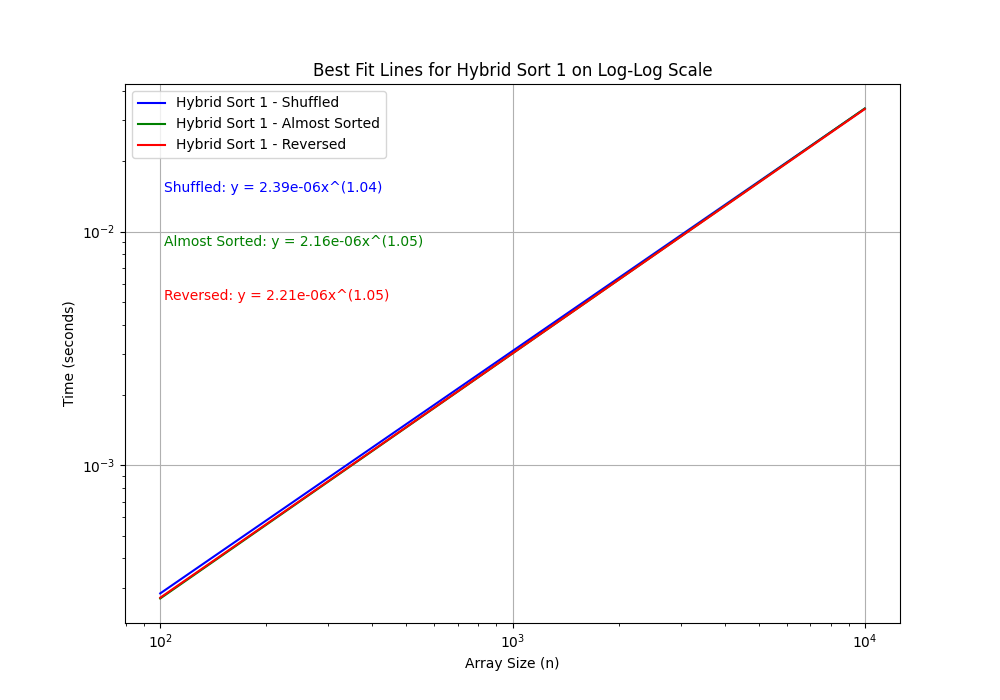
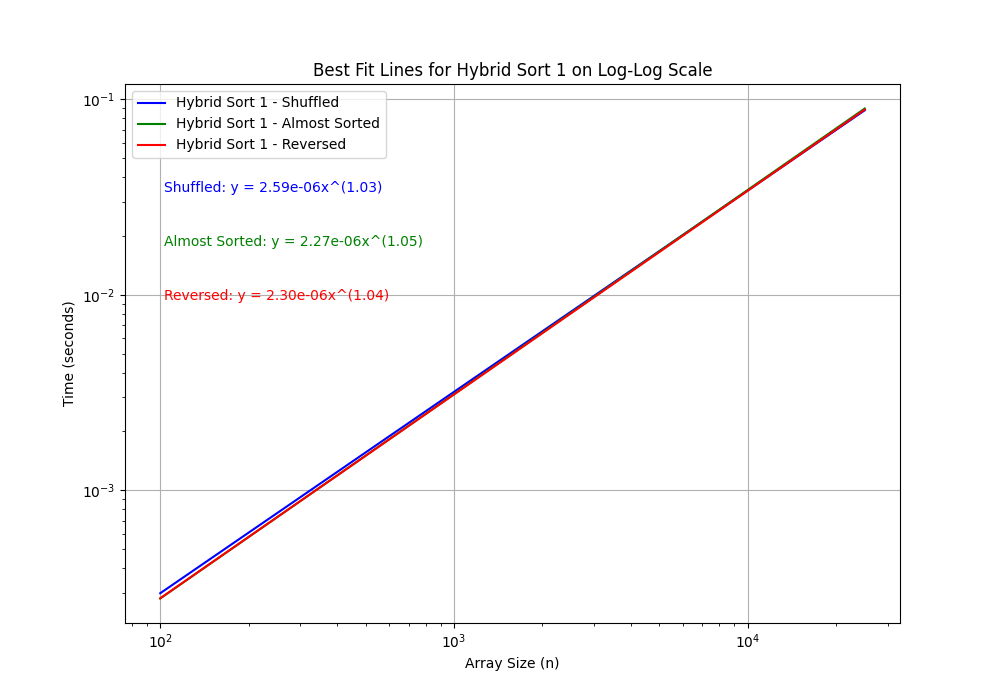
hard coded sequences to more accurately visualize shell sort

diff --git a/shell_sort3.py b/shell_sort3.py
@@ -2,18 +2,8 @@ def shell_sort3(nums):
     n = len(nums)
     if n == 0:
         return nums
-    sequence = [1, 2, 3, 4, 6, 8, 9, 12, 16, 18, 24, 27, 32, 36, 48, 54, 64, 72, 81, 96, 108, 128, 144, 162, 192, 216, 243, 256, 288, 324, 384, 432, 486, 512, 576, 648, 729, 768, 864, 972, 1024, 1152, 1296, 1458, 1536, 1728, 1944, 2048, 2187, 2304, 2592, 2916, 3072, 3456, 3888]
-    if sequence[-1] < n: # Generate more sequence values if needed
-        for p in range(3888, n):
-            for q in range(3888, n):
-                val = (3 ** p) * (2 ** q)
-                if val < n:
-                    sequence.append(val)
-                else:
-                    break
-        sequence.sort()
-    else:
-        sequence = [gap for gap in sequence if gap < n]
+    sequence = [1, 2, 3, 4, 6, 8, 9, 12, 16, 18, 24, 27, 32, 36, 48, 54, 64, 72, 81, 96, 108, 128, 144, 162, 192, 216, 243, 256, 288, 324, 384, 432, 486, 512, 576, 648, 729, 768, 864, 972, 1024, 1152, 1296, 1458, 1536, 1728, 1944, 2048, 2187, 2304, 2592, 2916, 3072, 3456, 3888, 4096, 4374, 4608, 5184, 5832, 6144, 6561, 6912, 7776, 8192, 8748, 9216, 10368, 11664, 12288, 13122, 13824, 15552, 16384, 17496, 18432, 19683, 20736, 23328, 24576, 26244, 27648, 31104, 32768, 34992, 36864, 39366, 41472, 46656, 49152, 52488, 55296, 59049, 62208, 65536, 69984, 73728, 78732, 82944, 93312, 98304, 104976, 110592, 118098, 124416, 131072, 139968, 147456, 157464, 165888, 177147, 186624, 196608, 209952, 221184, 236196, 248832, 262144, 279936, 294912, 314928, 331776, 354294, 373248, 393216, 419904, 442368, 472392, 497664, 524288, 531441, 559872, 589824, 629856, 663552, 708588, 746496, 786432, 839808, 884736, 944784, 995328]
+    sequence = [gap for gap in sequence if gap < n]
     sequence.reverse()
     for gap in sequence:
         for i in range(gap, n):

diff --git a/shell_sort2.py b/shell_sort2.py
@@ -6,14 +6,10 @@ def shell_sort2(nums):
         return nums
 
     k = int(math.log(n, 2))
-    sequence = []
-    for i in range(k):
-        if i == 0:
-            sequence.append(1)
-        else:
-            sequence.append(2 ** i +1 )
-            
-            
+    sequence = [1, 3, 5, 9, 17, 33, 65, 129, 257, 513, 1025, 2049, 4097, 8193, 16385, 32769, 65537, 131073, 262145, 524289, 1048577, 2097153, 4194305, 8388609, 16777217, 33554433, 67108865, 134217729, 268435457, 536870913, 1073741825, 2147483649]
+    sequence = sequence[:k]
+    sequence.reverse()
+    pass
     for gap in sequence:
         for i in range(gap, n):
             temp = nums[i]

diff --git a/main.py b/main.py
@@ -225,7 +225,7 @@ def testHybrid3(sortedNums, shuffledNums, almostSortedNums, reversedNums):
 
 
 def main():
-    testN = [100, 500, 1000, 2500, 5000, 10000]
+    testN = [100, 500, 1000, 2500, 5000, 10000, 25000]
     insertion_timings = np.zeros((len(testN), 3))
     merge_timings = np.zeros((len(testN), 3))
     shell1_timings = np.zeros((len(testN), 3))
